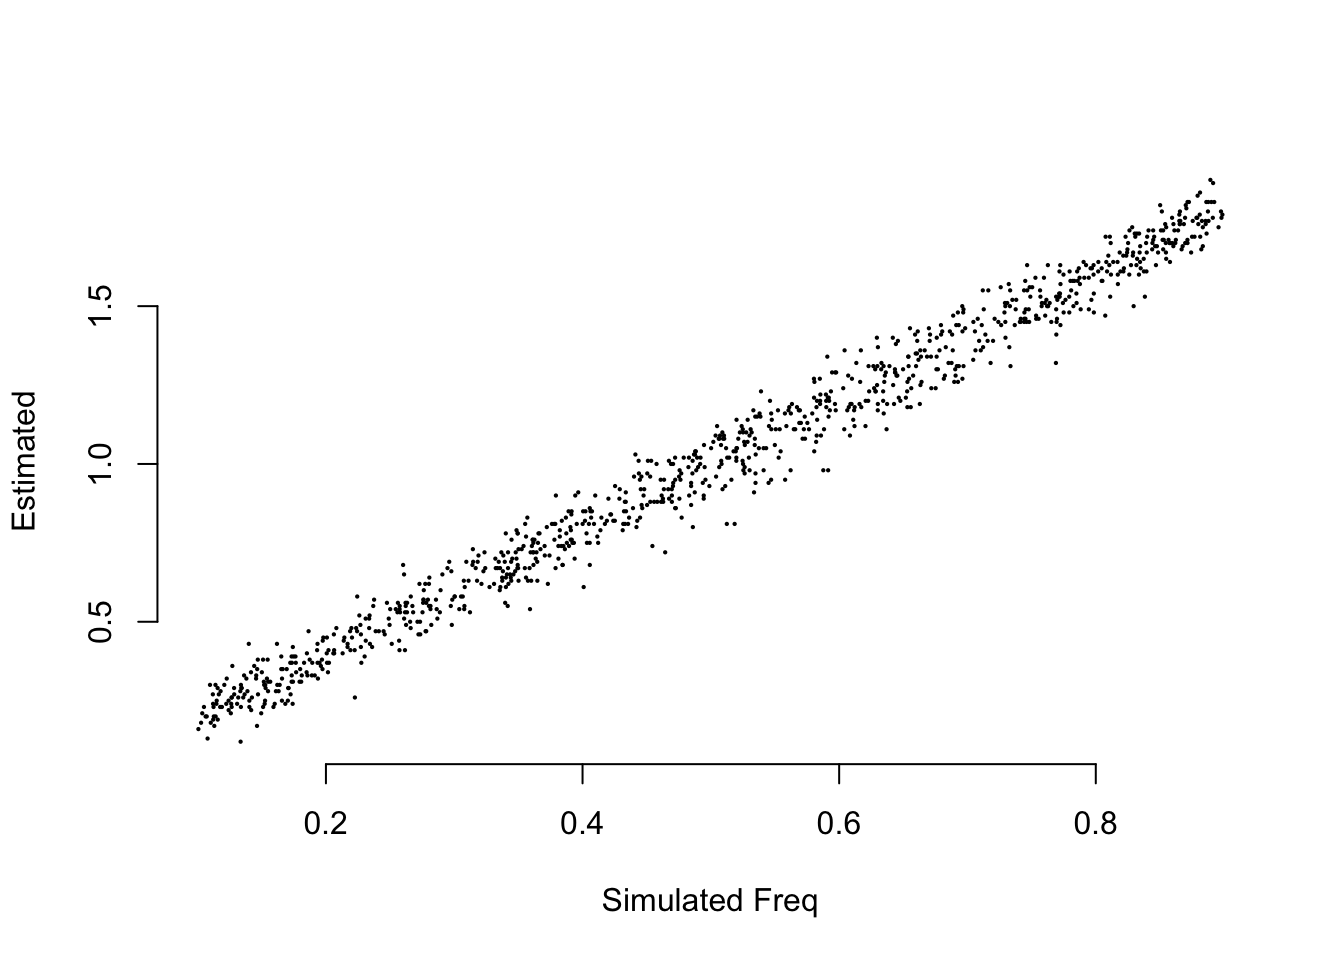
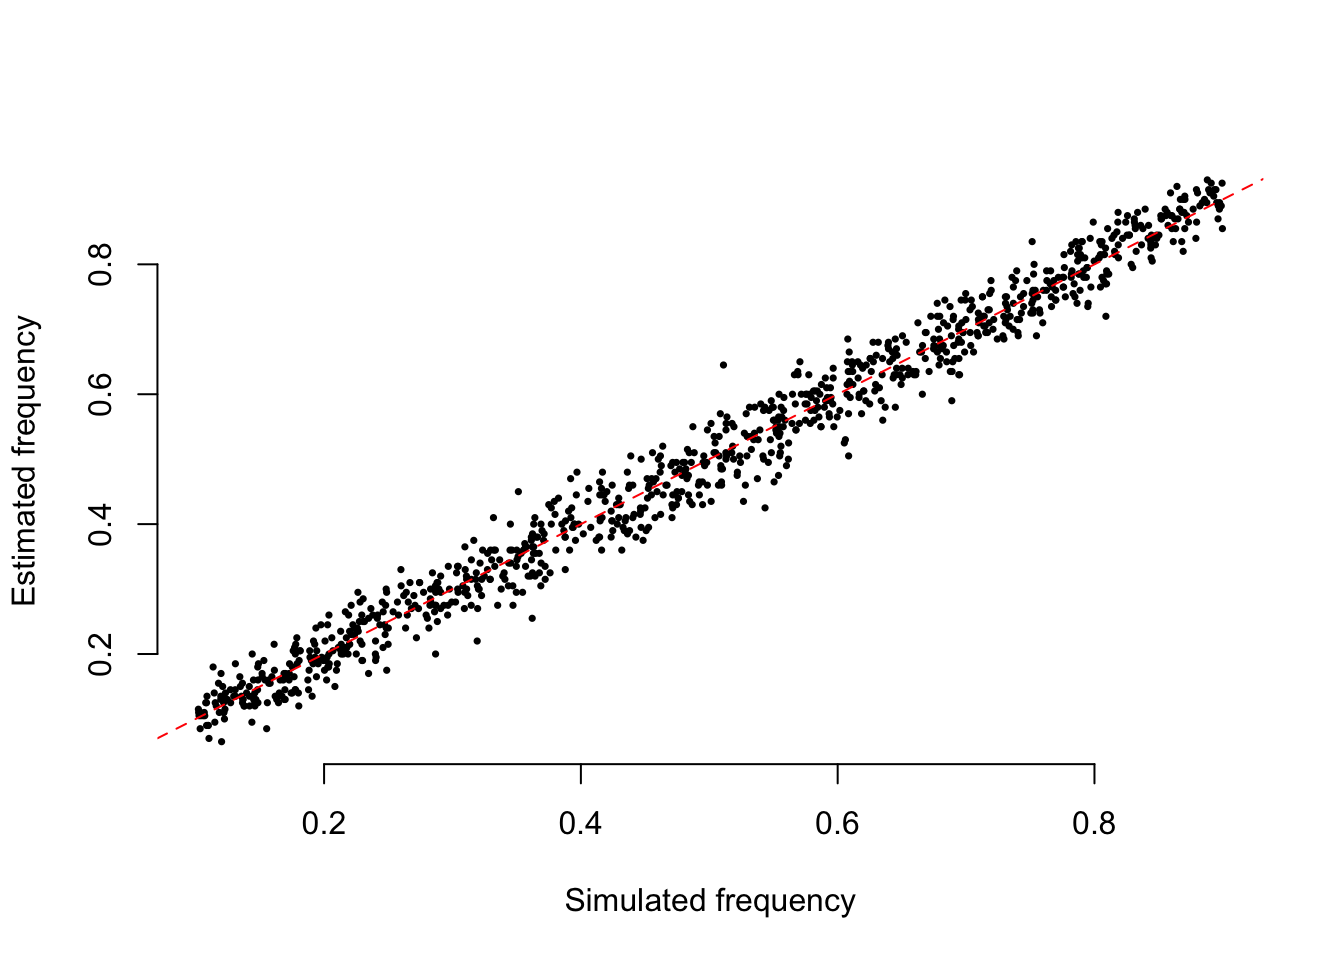
update r scripts

diff --git a/index.html b/index.html
@@ -203,13 +203,17 @@ code span.wa { color: #60a0b0; font-weight: bold; font-style: italic; } /* Warni
 <div id="eigengwas-basis" class="section level1">
 <h1><span class="header-section-number">Chapter 1</span> EigenGWAS basis</h1>
 <p>This project is dedicated to EigenGWAS, a linear model analysis approach for eigenvectors on genomic data, which can be represented as <span class="math inline">\(\mathbf{X}\)</span> the <span class="math inline">\(n \times m\)</span> genotype matrix. Without loss of generality, <span class="math inline">\(x_j\)</span> for the <span class="math inline">\(i^{th}\)</span> locus is a biallic locus. The data matrix <span class="math inline">\(\mathbf{X}\)</span> can be generated from genotyping chips, NGS, or GBS.</p>
-<pre class="sourceCode r"><code class="sourceCode r">freq=<span class="kw">runif</span>(<span class="dv">1000</span>, <span class="fl">0.1</span>, <span class="fl">0.9</span>)
+<pre class="sourceCode r"><code class="sourceCode r"><span class="kw">set.seed</span>(<span class="dv">2018</span>)
+freq=<span class="kw">runif</span>(<span class="dv">1000</span>, <span class="fl">0.1</span>, <span class="fl">0.9</span>)
 X=<span class="kw">matrix</span>(<span class="dv">0</span>, <span class="dv">100</span>, <span class="kw">length</span>(freq))
 <span class="cf">for</span>(i <span class="cf">in</span> <span class="dv">1</span><span class="op">:</span><span class="kw">length</span>(freq)) {
   X[,i]=<span class="kw">rbinom</span>(<span class="kw">nrow</span>(X), <span class="dv">2</span>, freq[i])
 
 }
-<span class="kw">plot</span>(freq, <span class="kw">colMeans</span>(X), <span class="dt">xlab=</span><span class="st">&quot;Simulated Freq&quot;</span>, <span class="dt">ylab=</span><span class="st">&quot;Estimated&quot;</span>, <span class="dt">bty=</span><span class="st">&#39;n&#39;</span>, <span class="dt">pch=</span><span class="dv">16</span>, <span class="dt">cex=</span><span class="fl">0.3</span>)</code></pre>
+<span class="kw">print</span>(<span class="kw">dim</span>(X))
+<span class="co">## [1]  100 1000</span>
+<span class="kw">plot</span>(freq, <span class="kw">colMeans</span>(X)<span class="op">/</span><span class="dv">2</span>, <span class="dt">xlab=</span><span class="st">&quot;Simulated frequency&quot;</span>, <span class="dt">ylab=</span><span class="st">&quot;Estimated frequency&quot;</span>, <span class="dt">bty=</span><span class="st">&#39;n&#39;</span>, <span class="dt">pch=</span><span class="dv">16</span>, <span class="dt">cex=</span><span class="fl">0.5</span>)
+<span class="kw">abline</span>(<span class="dt">a=</span><span class="dv">0</span>, <span class="dt">b=</span><span class="dv">1</span>, <span class="dt">col=</span><span class="st">&quot;red&quot;</span>, <span class="dt">lty=</span><span class="dv">2</span>)</code></pre>
 <p><img src="EigenGWAS_files/figure-html/x-1.png" width="672" /></p>
 <div id="genetic-relatedness-matrix-mathbfg" class="section level2">
 <h2><span class="header-section-number">1.1</span> Genetic relatedness matrix <span class="math inline">\(\mathbf{G}\)</span></h2>
@@ -234,7 +238,7 @@ G=Xs <span class="op">%*%</span><span class="st"> </span><span class="kw">t</spa
 Ne=<span class="op">-</span><span class="dv">1</span><span class="op">/</span><span class="kw">mean</span>(G[<span class="kw">col</span>(G)<span class="op">&lt;</span><span class="kw">row</span>(G)])
 Me=<span class="dv">1</span><span class="op">/</span><span class="kw">var</span>(G[<span class="kw">col</span>(G)<span class="op">&lt;</span><span class="kw">row</span>(G)])
 <span class="kw">print</span>(<span class="kw">paste</span>(<span class="st">&quot;Ne=&quot;</span>, Ne, <span class="st">&quot;Me=&quot;</span>, Me, <span class="st">&quot;given N=&quot;</span>, <span class="kw">nrow</span>(Xs), <span class="st">&quot;and M=&quot;</span>, <span class="kw">ncol</span>(Xs)))
-<span class="co">## [1] &quot;Ne= 100 Me= 1052.57134297777 given N= 100 and M= 1000&quot;</span>
+<span class="co">## [1] &quot;Ne= 100 Me= 1080.91076380488 given N= 100 and M= 1000&quot;</span>
 <span class="kw">hist</span>(G[<span class="kw">col</span>(G)<span class="op">&lt;</span><span class="kw">row</span>(G)], <span class="dt">main=</span><span class="st">&quot;GRM&quot;</span>, <span class="dt">xlab=</span><span class="st">&quot;Relatedness&quot;</span>, <span class="dt">breaks =</span> <span class="dv">25</span>)
 <span class="kw">legend</span>(<span class="st">&quot;topright&quot;</span>, <span class="dt">legend =</span> <span class="kw">c</span>(<span class="kw">paste0</span>(<span class="st">&quot;Ne=&quot;</span>, <span class="kw">format</span>(Ne, <span class="dt">digits =</span> <span class="dv">2</span>)), <span class="kw">paste0</span>(<span class="st">&quot;Me=&quot;</span>, <span class="kw">format</span>(Me, <span class="dt">digits =</span> <span class="dv">2</span>)) ), <span class="dt">bty =</span> <span class="st">&#39;n&#39;</span>)</code></pre>
 <p><img src="EigenGWAS_files/figure-html/G-1.png" width="672" /></p>
@@ -246,17 +250,27 @@ Me=<span class="dv">1</span><span class="op">/</span><span class="kw">var</span>
 <p><span class="math display">\[\mathbf{E}_k=a+\beta_j\mathbf{x}_i+e\]</span></p>
 <p>It consequently generates <span class="math inline">\(m\)</span> estimates of <span class="math inline">\(\beta\)</span>, <span class="math inline">\(\sigma_j\)</span>, and their corresponding <span class="math inline">\(p\)</span> values. Given the <span class="math inline">\(m\)</span> <span class="math inline">\(p\)</span> values, the conventional
 Manhattan plot can be made.</p>
-<p>In particular, the one-degree-of-freedom <span class="math inline">\(\chi^2_1\)</span> has approximation as <span class="math inline">\(4\frac{\color{red} {n_1}\color{blue}{n_2}}{n}\frac{(\color{red}{p_{1,l}}-\color{blue}{p_{2,l}})^2}{\bar{p_l}\bar{q_l}}\)</span>. <span class="math inline">\(\color{red}{n_1}\)</span> and <span class="math inline">\(\color{blue}{n_2}\)</span> are the numbers of sample at the left and right side of “0” on an eigenvector, see the figure below. <span class="math inline">\(\color{red}{p_{1,l}}\)</span> and <span class="math inline">\(\color{blue}{p_{2,l}}\)</span> are frequencies of the reference allele in two subgroups, respectively. <span class="math inline">\(\bar{p_l}\)</span> is the allele frequency of the reference allele.</p>
+<p>In particular, the one-degree-of-freedom <span class="math inline">\(\chi^2_1\)</span> has approximation as <span class="math inline">\(4\frac{\color{red} {n_1}\color{blue}{n_2}}{n}\frac{(\color{red}{p_{1,l}}-\color{blue}{p_{2,l}})^2}{\bar{p_l}\bar{q_l}}\)</span>. <span class="math inline">\(\color{red}{n_1}\)</span> and <span class="math inline">\(\color{blue}{n_2}\)</span> are the numbers of samples at the left and right side of “0” on the eigenvector, see the figure below. <span class="math inline">\(\color{red}{p_{1,l}}\)</span> and <span class="math inline">\(\color{blue}{p_{2,l}}\)</span> are frequencies of the reference allele in two subgroups, respectively. <span class="math inline">\(\bar{p_l}\)</span> is the allele frequency of the reference allele.</p>
 <pre class="sourceCode r"><code class="sourceCode r">eigenG=<span class="kw">eigen</span>(G)
 <span class="kw">layout</span>(<span class="kw">matrix</span>(<span class="dv">1</span><span class="op">:</span><span class="dv">2</span>, <span class="dv">1</span>, <span class="dv">2</span>))
 <span class="kw">barplot</span>(eigenG<span class="op">$</span>values, <span class="dt">main=</span><span class="st">&quot;Eigenvalues&quot;</span>)
-<span class="kw">plot</span>(eigenG<span class="op">$</span>vectors[,<span class="dv">1</span>], eigenG<span class="op">$</span>vectors[,<span class="dv">2</span>], <span class="dt">xlab=</span><span class="st">&quot;Eigen 1&quot;</span>, <span class="dt">ylab=</span><span class="st">&quot;Eigen 2&quot;</span>, <span class="dt">bty=</span><span class="st">&#39;n&#39;</span>, <span class="dt">main=</span><span class="st">&quot;Eigenspace&quot;</span>, <span class="dt">pch=</span><span class="dv">16</span>, <span class="dt">cex=</span><span class="fl">0.5</span>, <span class="dt">col=</span><span class="kw">ifelse</span>(eigenG<span class="op">$</span>vectors[,<span class="dv">1</span>]<span class="op">&gt;</span><span class="dv">0</span>, <span class="st">&quot;red&quot;</span>, <span class="st">&quot;blue&quot;</span>))</code></pre>
+<span class="kw">plot</span>(eigenG<span class="op">$</span>vectors[,<span class="dv">1</span>], eigenG<span class="op">$</span>vectors[,<span class="dv">2</span>], <span class="dt">xlab=</span><span class="st">&quot;Eigen 1&quot;</span>, <span class="dt">ylab=</span><span class="st">&quot;Eigen 2&quot;</span>, <span class="dt">bty=</span><span class="st">&#39;n&#39;</span>, <span class="dt">main=</span><span class="st">&quot;Eigenspace&quot;</span>, <span class="dt">pch=</span><span class="dv">16</span>, <span class="dt">cex=</span><span class="fl">0.5</span>, <span class="dt">col=</span><span class="kw">ifelse</span>(eigenG<span class="op">$</span>vectors[,<span class="dv">1</span>]<span class="op">&gt;</span><span class="dv">0</span>, <span class="st">&quot;red&quot;</span>, <span class="st">&quot;blue&quot;</span>))
+<span class="kw">abline</span>(<span class="dt">v=</span><span class="dv">0</span>, <span class="dt">col=</span><span class="st">&quot;grey&quot;</span>, <span class="dt">lty=</span><span class="dv">2</span>)</code></pre>
 <p><img src="EigenGWAS_files/figure-html/eigen-1.png" width="672" /></p>
 <div id="population-structure-lambda_gc" class="section level3">
 <h3><span class="header-section-number">1.2.1</span> Population structure <span class="math inline">\(\lambda_{GC}\)</span></h3>
 <p>We can define <span class="math inline">\(\lambda_{GC}=\chi^2_{1,median(p)}/\chi^2_{1,0.5}\)</span>, in which <span class="math inline">\(\chi^2_{1,0.5}=0.455\)</span>. We further use subscript <span class="math inline">\(k\)</span> to denote <span class="math inline">\(\lambda_{GC_k}\)</span> the one that is estimated from <span class="math inline">\(\mathbf{E}_k\)</span>.</p>
 <p>When the population structure is completely driven by genetic drift, <span class="math inline">\(\lambda_{GC_k} \approx \Lambda_k\)</span>.</p>
 <p>After technical correction, correspondingly <span class="math inline">\(\tilde\chi^2_1=\chi^2_1/\lambda_{GC}\)</span>, a reduce of the test statistic compared to its original form.</p>
+<pre class="sourceCode r"><code class="sourceCode r">Chi=<span class="kw">rchisq</span>(<span class="dv">10000</span>, <span class="dv">1</span>, <span class="dt">ncp=</span><span class="fl">0.2</span>)
+<span class="kw">layout</span>(<span class="kw">matrix</span>(<span class="dv">1</span><span class="op">:</span><span class="dv">2</span>, <span class="dv">1</span>, <span class="dv">2</span>))
+<span class="kw">qqplot</span>(<span class="dt">main=</span><span class="st">&quot;Raw&quot;</span>, <span class="kw">rchisq</span>(<span class="dv">1000</span>,<span class="dv">1</span>), Chi, <span class="dt">bty=</span><span class="st">&quot;n&quot;</span>, <span class="dt">xlab=</span><span class="kw">expression</span>(<span class="kw">paste</span>(<span class="st">&quot;Theoretical &quot;</span>,chi[<span class="dv">1</span>]<span class="op">^</span><span class="dv">2</span>)), <span class="dt">ylab=</span><span class="kw">expression</span>(<span class="kw">paste</span>(<span class="st">&quot;Observed &quot;</span>,chi[<span class="dv">1</span>]<span class="op">^</span><span class="dv">2</span>)), <span class="dt">pch=</span><span class="dv">16</span>, <span class="dt">cex=</span><span class="fl">0.5</span>)
+<span class="kw">abline</span>(<span class="dt">a=</span><span class="dv">0</span>, <span class="dt">b=</span><span class="dv">1</span>, <span class="dt">col=</span><span class="st">&quot;red&quot;</span>, <span class="dt">lty=</span><span class="dv">2</span>)
+gc=<span class="kw">median</span>(Chi)<span class="op">/</span><span class="kw">qchisq</span>(<span class="fl">0.5</span>, <span class="dv">1</span>, <span class="dt">lower.tail =</span> F)
+ChiGC=Chi<span class="op">/</span>gc
+<span class="kw">qqplot</span>(<span class="dt">main=</span><span class="st">&quot;After correction&quot;</span>, <span class="kw">rchisq</span>(<span class="dv">1000</span>,<span class="dv">1</span>), ChiGC, <span class="dt">bty=</span><span class="st">&quot;n&quot;</span>, <span class="dt">xlab=</span><span class="kw">expression</span>(<span class="kw">paste</span>(<span class="st">&quot;Theoretical &quot;</span>,chi[<span class="dv">1</span>]<span class="op">^</span><span class="dv">2</span>)), <span class="dt">ylab=</span><span class="kw">expression</span>(<span class="kw">paste</span>(<span class="st">&quot;Observed &quot;</span>,chi[<span class="dv">1</span>]<span class="op">^</span><span class="dv">2</span>)), <span class="dt">pch=</span><span class="dv">16</span>, <span class="dt">cex=</span><span class="fl">0.5</span>)
+<span class="kw">abline</span>(<span class="dt">a=</span><span class="dv">0</span>, <span class="dt">b=</span><span class="dv">1</span>, <span class="dt">col=</span><span class="st">&quot;red&quot;</span>, <span class="dt">lty=</span><span class="dv">2</span>)</code></pre>
+<p><img src="EigenGWAS_files/figure-html/gc-1.png" width="672" /></p>
 </div>
 <div id="threshold-for-eigengwas" class="section level3">
 <h3><span class="header-section-number">1.2.2</span> Threshold for EigenGWAS</h3>
